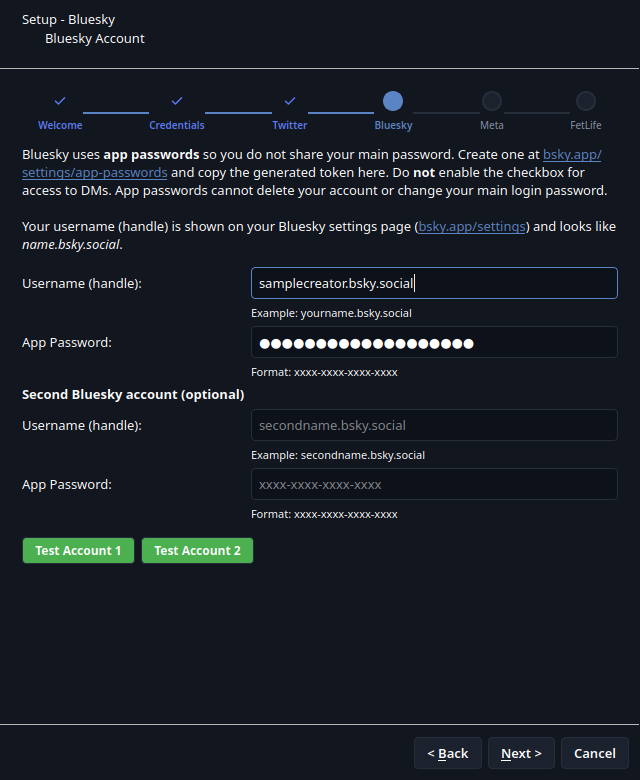
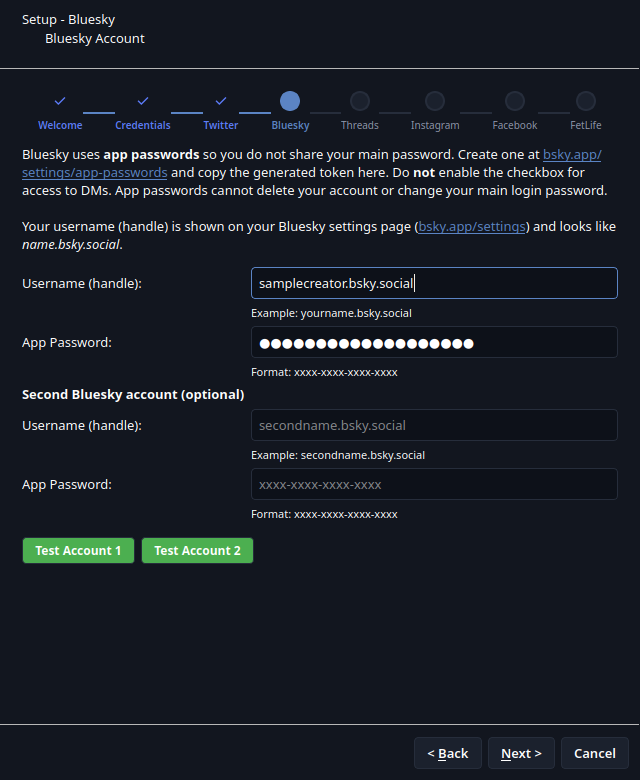
Move Advanced below Accounts in Settings sidebar; fix broken screenshot tools
Settings dialog: Advanced now trails every account section under its own
"More" header, so browsing accounts doesn't require scrolling past it
first. Considered a blank divider instead of a header, but a bare
non-selectable row read as a UI glitch rather than intentional grouping;
"More" avoids repeating "App" (already used above Accounts) and avoids
being redundant with the "Advanced" page title beneath it.

Also fixes both tools/screenshots/*.py scripts, which still constructed
SetupWizard(auth_manager) with one argument -- broken since an earlier
change in this branch added a required config_manager parameter for the
notification-email feature. Neither script lives under tests/, so
make test-cov never caught the regression; found it while about to run
tools/screenshots/generate_wizard_step_screenshots.py at the user's
request.

Regenerated docs/images/settings-dialog.png and setup-wizard.png to
reflect both the sidebar reorder and the notification-email field added
earlier in this branch (main-window.png and results-dialog.png came back
byte-identical, so git shows no diff for those two).

🌸 Shipped with Kanna — https://kanna.sh

Kanna-Agent: claude/sonnet

diff --git a/src/gui/settings_dialog.py b/src/gui/settings_dialog.py
@@ -130,9 +130,6 @@ class SettingsDialog(QDialog):
         general_tab = self._create_general_tab()
         self._add_sidebar_page('General', 'icons/ui/settings.svg', general_tab)
 
-        advanced_tab = self._create_advanced_tab()
-        self._add_sidebar_page('Advanced', 'icons/ui/tune.svg', advanced_tab)
-
         # Per-platform account sections
         self._add_sidebar_group('Accounts')
         self._add_sidebar_page('Twitter', 'icons/brands/twitter.svg', self._create_twitter_tab())
@@ -164,6 +161,14 @@ class SettingsDialog(QDialog):
                 icon_resource,
                 self._create_webview_platform_tab(platform_id, specs),
             )
+
+        # Advanced sits below every account section, so browsing accounts doesn't
+        # require scrolling past it first. "More" (not a second "App" label) keeps
+        # it visually distinct from the account list without implying a repeated
+        # section or being redundant with the "Advanced" page title beneath it.
+        self._add_sidebar_group('More')
+        advanced_tab = self._create_advanced_tab()
+        self._add_sidebar_page('Advanced', 'icons/ui/tune.svg', advanced_tab)
 
         self._settings_sidebar.setCurrentRow(1)
         layout.addLayout(content_layout, 1)

diff --git a/tests/test_settings_dialog.py b/tests/test_settings_dialog.py
@@ -361,8 +361,11 @@ def test_settings_dialog_has_grouped_sidebar_sections(qtbot, tmp_path, monkeypat
         dialog._settings_sidebar.item(i).text() for i in range(dialog._settings_sidebar.count())
     ]
 
-    assert sidebar_names[:3] == ['App', 'General', 'Advanced']
-    assert sidebar_names[3:9] == [
+    # Advanced trails every account section under its own "More" header — not
+    # grouped with General under "App" — so browsing accounts never scrolls
+    # past it first.
+    assert sidebar_names[:2] == ['App', 'General']
+    assert sidebar_names[2:8] == [
         'Accounts',
         'Twitter',
         'Bluesky',
@@ -376,8 +379,8 @@ def test_settings_dialog_has_grouped_sidebar_sections(qtbot, tmp_path, monkeypat
     assert 'Snapchat' not in sidebar_names
     assert 'OnlyFans' not in sidebar_names
     assert 'Fansly' not in sidebar_names
-    assert sidebar_names[9:] == ['FetLife']
-    for row in (1, 2, 4, 5, 6, 7, 8, 9):
+    assert sidebar_names[8:] == ['FetLife', 'More', 'Advanced']
+    for row in (1, 3, 4, 5, 6, 7, 8, 10):
         assert not dialog._settings_sidebar.item(row).icon().isNull()
 
 

diff --git a/tools/screenshots/generate_wizard_step_screenshots.py b/tools/screenshots/generate_wizard_step_screenshots.py
@@ -34,6 +34,7 @@ from PyQt6.QtGui import QImage
 from PyQt6.QtWidgets import QApplication
 
 from src.core.auth_manager import AuthManager
+from src.core.config_manager import ConfigManager
 from src.gui.setup_wizard import SetupWizard
 from src.utils.theme import apply_theme
 
@@ -61,7 +62,8 @@ def main() -> None:
     apply_theme(app)
 
     auth_manager = AuthManager()  # fresh, first-run state
-    wizard = SetupWizard(auth_manager)
+    config_manager = ConfigManager()
+    wizard = SetupWizard(auth_manager, config_manager)
     apply_theme(app, wizard)
     wizard.resize(640, 780)
     wizard.show()

diff --git a/tools/screenshots/generate_readme_screenshots.py b/tools/screenshots/generate_readme_screenshots.py
@@ -163,8 +163,9 @@ def _select_settings_nav_item(dialog, label: str) -> None:
 
 def capture_setup_wizard(app: QApplication) -> None:
     auth_manager = AuthManager()  # deliberately empty -- this is the fresh-setup flow
+    config_manager = ConfigManager()
 
-    wizard = SetupWizard(auth_manager)
+    wizard = SetupWizard(auth_manager, config_manager)
     apply_theme(app, wizard)
     wizard.resize(640, 780)
     wizard.show()
